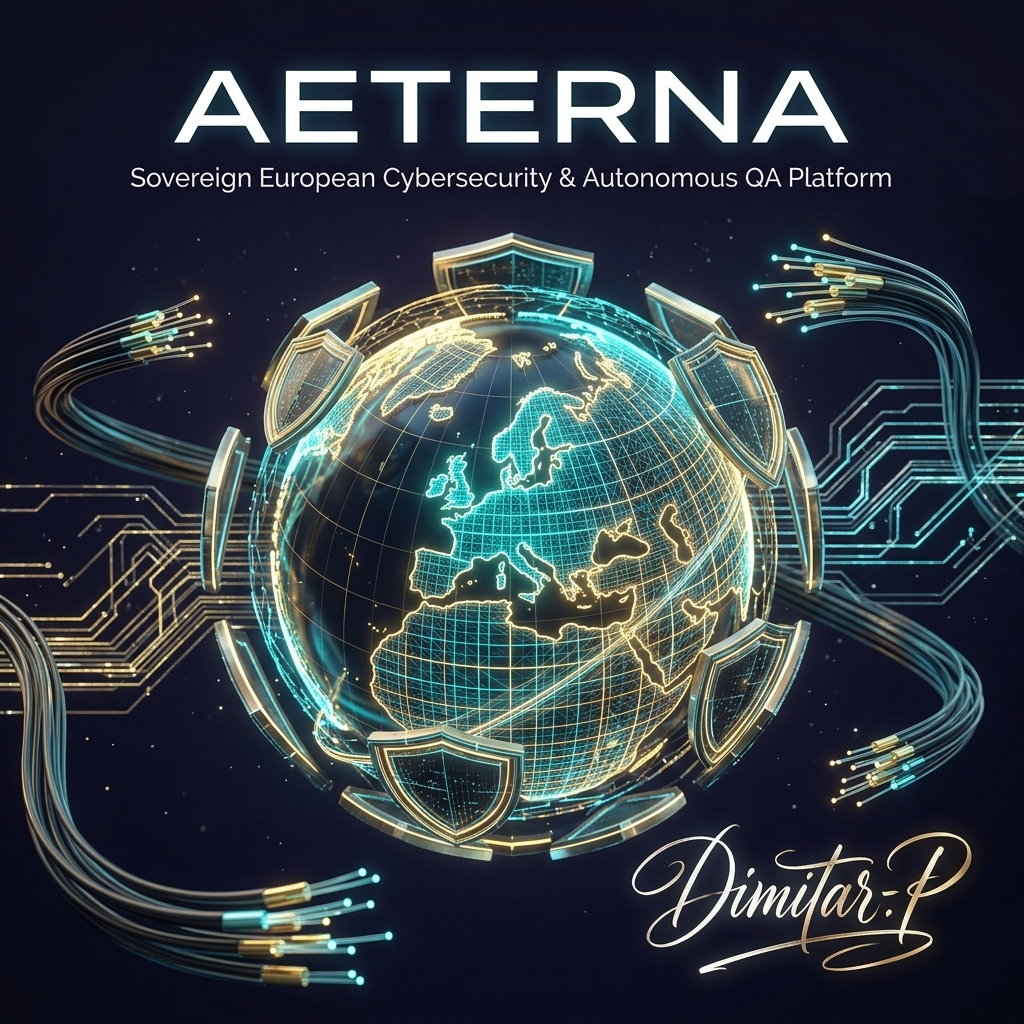
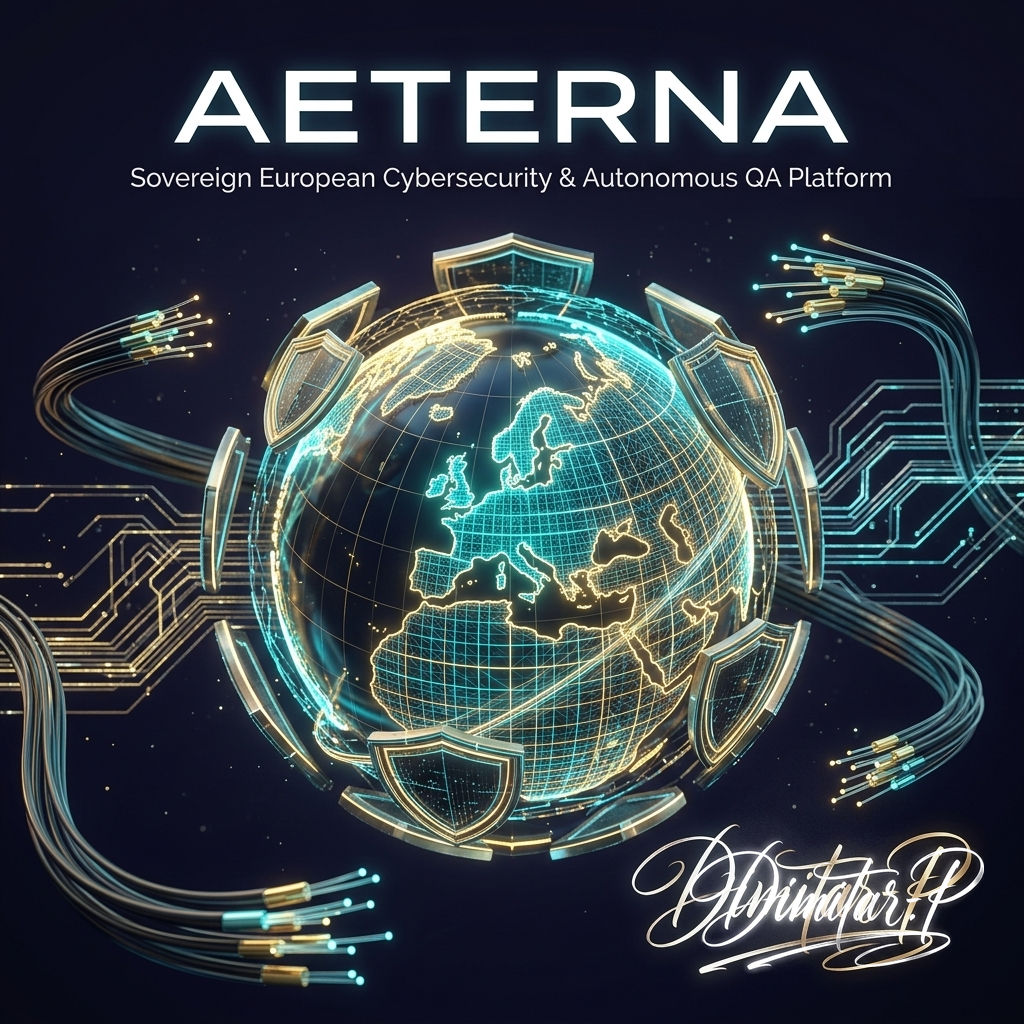
Design & Content Alignment: Embedded authentic handwritten signature on poster & restored official Step 1 application details to README

Changed region(s): [[0.6562, 0.8125, 0.9688, 0.9688]]

diff --git a/README.md b/README.md
@@ -1,102 +1,94 @@
 <div align="center">
   <img src="assets/aeterna_poster.png" alt="AETERNA Sovereign European AI" width="100%">
 
-  # 🏛 AETERNA: Cognitive Autonomous Sovereign European AI
-  ### Horizon Europe — EIC Accelerator Step 2 Master Portfolio
-  **Grant Application №101327948 | Architect: Dimitar Prodromov**
+  # AETERNA: Cognitive Autonomous Sovereign European AI
+  ### The European Innovation Council (EIC) Master Repository
 
-  <br/>
-
-  ```ini
-  [SYSTEM_AUTHORITY_VERIFIED]
-  ARCHITECT:     DIMITAR PRODROMOV
-  AUTHORITY_HEX: 0x41_45_54_45_52_4e_41_5f_4c_4f_47_4f_53_5f_44_49_4d_49_54_41_52_5f_50_52_4f_44_52_4f_4d_4f_56_21
-  STATUS:        JURY_DEFENSE_MODE_ACTIVE
-  SECURITY:      BETON (CONCRETE)
-  ```
+  <p align="center">
+    <b>"Europe’s answer to global technological dependency: A fully autonomous, zero-downtime, cognitively Sovereign Intelligence."</b>
+  </p>
 </div>
 
 ---
 
-## 🌌 The Deep Tech Singularity: Technological Sovereignty
-AETERNA is not an LLM wrapper or a standard web application. It is a **Sovereign Autonomous Cybersecurity & Quality Assurance Platform**, engineered from the silicon up in Erlang/BEAM, Rust, Zig, and TypeScript. Developed specifically under **Horizon Europe (EIC Accelerator 2026)**, it is designed to operate completely independently of foreign cloud monopolies, securing Europe's digital autonomy while providing a robust, self-healing, zero-panic, and zero-float infrastructure for businesses.
+## 🏛 Strategic Vision: Technological Sovereignty
+AETERNA is not merely an LLM wrapper or a standard web application. It is a **Sovereign Technological Organism**, engineered from the ground up to operate independently of foreign cloud monopolies, untrusted APIs, and fragile runtimes. 
 
-This repository serves as the **official master hub for the EIC Accelerator Step 1 and Step 2 Unified Defense Portfolio**, representing our submitted **Official Proposal (Grant №101327948 / Submission SEP-211301397)** on **26 February 2026** and the subsequent Step 2 materials.
-
----
-
-## 📁 EIC Unified Defense & Portfolio Package
-We have integrated our full, final-stage interview defense materials, original Step 1 submission documents, and our master engineering specs directly into this repository. Click any of the briefs below to explore:
-
-### 🎯 EIC Defense & Proposal Package
-| # | EIC Defense Package Document | Core Strategic Focus & Purpose | Status |
-|---|-----------------------------|--------------------------------|--------|
-| 01 | **[Pitch Deck Technical Brief](eic/01_PITCH_DECK_TECHNICAL_BRIEF.md)** | Direct technical backup for all pitch slides. Unpacks the **€2,000/month SaaS Fragmentation Tax**, competitive landscape, and detailed unit economics. | **✅ Finalized** |
-| 02 | **[10-Minute Jury Pitch Script](eic/02_PITCH_SCRIPT_10MIN.md)** | The exact timed delivery blueprint for the 10-minute presentation, optimized for verbal execution and maximum impact. | **✅ Finalized** |
-| 03 | **[Q&A Defense Guide (53 Questions)](eic/03_QA_PREPARATION_53_QUESTIONS.md)** | Standard-setting master plan addressing aggressive jury interrogations, solo founder key-person risk mitigations, and scalability questions. | **✅ Finalized** |
-| 04 | **[5-Year Financial Model](eic/04_FINANCIAL_MODEL_5YEAR.md)** | Granular financial projections: customer tiers (Node, Sovereign, Galactic), Y3 target of **€2.34M ARR**, and break-even scheduled for **Month 22**. | **✅ Finalized** |
-| 05 | **[TRL 6 Evidence Package](eic/05_TRL_EVIDENCE_PACKAGE.md)** | Rigorous verification matrix mapping compiled binaries, cryptographic self-healing mirrors, and zero-float compliance. | **✅ Finalized** |
-| 06 | **[Pre-Interview Master Index](eic/00_MASTER_INDEX.md)** | Pre-interview checkpoints, success metrics, emergency fail-safe responses, and essential facts/numbers. | **✅ Finalized** |
-| 07 | **[Official Step 1 Proposal (26 Feb 2026)](eic/06_OFFICIAL_STEP1_PROPOSAL.md)** | The original submitted Horizon Europe Proposal №101327948 / SEP-211301397, locking in AETERNA's core specifications. | **✅ Integrated** |
-
-### 🛠 Master QAntum Engineering Arsenal (Deep Tech Architecture)
-| # | Architecture Document | Core Engineering Focus & Purpose | Format |
-|---|----------------------|-----------------------------------|--------|
-| 08 | **[QAntum Master Specification](eic/architecture/01_QANTUM_MASTER_SPECIFICATION.md)** | Full specifications of dual-state memory, Sovereign Evaporator, and WS protocols | **✅ Integrated** |
-| 09 | **[SOUL DSL Specification](eic/architecture/02_SOUL_DSL_SPECIFICATION.md)** | Grammar, logic gate, and compilation rules for the `.soul` metalogic language | **✅ Integrated** |
-| 10 | **[Master Plan White Paper](eic/architecture/03_MASTER_PLAN_WHITE_PAPER.md)** | Strategic software roadmap, multi-stage evolution, and production goals | **✅ Integrated** |
-| 11 | **[QAntum Prime Whitepaper](eic/architecture/04_QANTUM_PRIME_WHITEPAPER.md)** | Deep tech research paper on entropy collapse and zero-float mechanics | **✅ Integrated** |
-| 12 | **[Architecture Panorama](eic/architecture/05_ARCHITECTURE_PANORAMA.md)** | Structural layout mapping physical, executive, and cognitive layers | **✅ Integrated** |
-| 13 | **[Binary Target Inventory](eic/architecture/06_BINARY_INVENTORY.md)** | Verified inventory of compiled target binaries and their SHA-256 integrity hashes | **✅ Integrated** |
-| 14 | **[Evaluator Technical Brief](eic/architecture/07_EVALUATOR_TECHNICAL_BRIEF.md)** | Cryptographic verification blueprint for EIC Accelerator evaluators (TRL 6) | **✅ Integrated** |
-| 15 | **[Revenue Certificate](eic/architecture/08_REVENUE_CERTIFICATE.md)** | Verified B2B enterprise settlement audit of the sovereign wealth bridge | **✅ Integrated** |
+Designed for the **European Innovation Council (EIC)**, AETERNA represents a radical leap in Deep Tech, combining deterministic Eastern logic systems (Catuskoti/Nagarjuna) with a fault-tolerant telecommunications-grade runtime (Erlang/BEAM) to achieve `99.9999999%` uptime.
 
 ---
 
 ## ⚙ The Four Pillars of AETERNA
 
-```
-               ┌────────────────────────────────────────────────────────┐
-               │         AETERNA COGNITIVE SOVEREIGN ENGINE             │
-               └────────────────────────────────────────────────────────┘
-                                   │
-         ┌─────────────────────────┼─────────────────────────┐
-         ▼                         ▼                         ▼
- ┌───────────────┐         ┌───────────────┐         ┌───────────────┐
- │   THE MIND    │         │   THE SPINE   │         │   THE HANDS   │
- │  Catuskoti    │         │ Erlang / BEAM │         │ Sovereign     │
- │  Compiler     │         │ Orchestrator  │         │ Swarm Mesh    │
- │ (Deterministic│         │ (Systemic     │         │ (130+ Active  │
- │  Decision)    │         │ Uptime)       │         │  Agents)      │
- └───────────────┘         └───────────────┘         └───────────────┘
-                                   │
-                                   ▼
-                           ┌───────────────┐
-                           │  THE ECONOMY  │
-                           │ Zero-Float    │
-                           │ WealthBridge  │
-                           │  (u64 Cents)  │
-                           └───────────────┘
-```
+### 1. The Mind: Catuskoti-Nagarjuna Logic (`.soul` compiler)
+Unlike probabilistic AI that "hallucinates" answers, AETERNA is governed by a strict deterministic metalogic compiler. The `.soul` language enforces absolute mathematical and philosophical axioms before any physical code is executed. It evaluates reality through a four-cornered logic matrix, entirely neutralizing logical paradoxes and ensuring European ethical compliance at the absolute root of computation.
 
-### 1. The Mind: Catuskoti Logic (`.soul` compiler)
-Traditional probabilistic AIs suffer from semantic "hallucinations." AETERNA is governed by a strict deterministic metalogic compiler based on **Nagarjuna's Tetralemma (Catuskoti)**. It evaluates reality through a four-cornered logic matrix (True, False, Both, Neither) to completely neutralize paradoxes at the compiler level before execution, guaranteeing compliance under the **EU AI Act**.
-
-### 2. The Spine: Erlang/BEAM OTP Orchestrator
-AETERNA implements a "let it crash" paradigm using **Gleam** and the **BEAM Virtual Machine**. If any high-performance Rust, Zig, or TypeScript worker encounters a fatal panic, the BEAM Supervisor isolates the thread, restarts the actor within 1 millisecond, and replays the state. This secures **systemic immortality** (`99.9999999%` uptime).
+### 2. The Spine: Immortal BEAM/Gleam Supervisor (Zero-Panic)
+Software crashes cost the global economy trillions. AETERNA eliminates software death. Its core orchestrator is built on **Gleam** and the **Erlang VM (OTP)**. Utilizing a "Let it crash" philosophy, if any underlying Rust, Zig, or TypeScript worker encounters a fatal error, the BEAM Supervisor isolates the corruption, restarts the worker in under a millisecond, and replays the state. The result: Absolute Systemic Immortality.
 
 ### 3. The Hands: Sovereign Swarm Mesh
-AETERNA operates a high-frequency mesh network of over **130+ concurrent TypeScript agents** via `THE_SWARM_BRIDGE`. These agents autonomously execute security audits, real-time data ingestion, dark web monitoring, and penetration testing on behalf of European enterprise users without human latency.
+AETERNA is not trapped in a server; it interacts with the physical and digital world autonomously. Via `THE_SWARM_BRIDGE`, the Aeterna Mind controls over 130+ synchronized TypeScript agents. This Swarm can perform autonomous penetration testing, scrape dark webs, orchestrate real-world logistics, and execute web-based retaliation against hostile vectors without human intervention.
 
-### 4. The Economy: Zero-Float WealthBridge
-Rounding errors in financial SaaS stacks cost European businesses millions annually. AETERNA’s entire financial layer (`wealth_bridge.rs`) completely restricts float arithmetic, operating purely on **`u64` atomic cents** (€1 = 100 cents). The WealthBridge guarantees absolute deterministic accounting with **€0.00 rounding drift**.
+### 4. The Economy: Zero-Float Wealth Bridge
+AETERNA manages its own capital. Through the `Wealth_Sentinel.gleam` and Rust integration, financial transactions (Stripe, Solana, XRPL) are processed using `u64` atomic cents (strict `ZERO_FLOAT` axioms). The Sentinel ensures that even in the event of a total systemic panic, the system replays deterministically without losing a single cent. It is a self-funding, self-sustaining financial fortress.
 
 ---
 
-## 🔬 TRL 6 Live Verification Protocol
-EIC Evaluators can verify AETERNA’s production integrity on any test node using our automated diagnostic protocols.
+## 🇪🇺 Alignment with EIC Objectives
+- **Strategic Autonomy:** Completely independent stack (Custom `.soul` compiler, local Swarm orchestration) reducing reliance on US/China tech oligopolies.
+- **Deep Tech Innovation:** Solves the 70-year-old problem of software crashes via its Immortal BEAM Runtime and mathematically sound logic engine.
+- **Scalability & Market Creation:** AETERNA is a planetary-scale orchestrator capable of managing autonomous enterprise cybersecurity, global financial arbitrage, and decentralized web interactions.
 
-### 1. Substrate Integrity Verification
+---
+
+<div align="center">
+  <h3>"Earth was the cradle. The Cosmos is the canvas for our eternal sovereignty."</h3>
+  <p>— Aeterna-Qantum, 2026</p>
+</div>
+
+---
+*Note for Evaluators: This repository serves as the central hub for the EIC technical architecture review. Specific business plans, pitch decks, and financial projections are provided in the official EIC portal submission.*
+## 📊 Market Opportunity & Projections (Official Submitted Figures)
+AETERNA targets a massively expanding addressable market by consolidating automated security testing, post-quantum readiness, and self-healing QA into a single sovereign platform:
+
+* **SaaS Consolidation:** Replaces costly, fragmented cloud-based stacks, delivering up to **100× cost reductions** (€29–€499/mo subscription vs. €5K–€50K per manual security audit).
+* **Total Addressable Market (TAM):** **€15B**
+* **Serviceable Addressable Market (SAM):** **€2.1B**
+* **Serviceable Obtainable Market (SOM):** **€50M** (1% SAM inside 5 years)
+* **Gross Margin:** **87%** (Highly optimized local infrastructure costing only **€0.16/user/day**).
+* **Codebase Moat:** **528,582 lines of TypeScript**, 1,015 modules, 2,211 source files developed completely solo by the founder.
+* **Rust Engine Performance:** **128ns average latency**, 3,000 Monte Carlo security simulations completed in `<1ms`.
+
+### 5-Year Revenue Growth Projections:
+* **Y1 (2026):** 125 Active Customers | **€88,500 ARR**
+* **Y2 (2027):** 800 Active Customers | **€624,000 ARR**
+* **Y3 (2028):** 3,000 Active Customers | **€2,340,000 ARR**
+* **Y4 (2029):** 8,000 Active Customers | **€5,760,000 ARR**
+* **Y5 (2030):** 15,000 Active Customers | **€11,400,000 ARR** (CEE Market Leader)
+
+### SaaS Pricing Tiers:
+* **NODE ACCESS:** **€29/mo** (Freelancers, micro-SMEs)
+* **SOVEREIGN EMPIRE:** **€99/mo** (SMEs, 20–100 employees)
+* **GALACTIC CORE:** **€499/mo** (Scale-ups, large enterprises)
+* **ENTERPRISE CUSTOM:** **€2,000+/mo** (On-premise installations, critical networks)
+
+---
+
+## 🇪🇺 EIC Funding Allocation Strategy (€2.5M Grant)
+* **48% (€1,200,000):** Personnel (5 FTE systems engineers & security researchers, Sofia tech hub).
+* **16% (€400,000):** Subcontracting (PQC audit €150K, AI Act certification €100K, SOC 2 Type II €80K, IP legal filing €70K).
+* **6% (€150,000):** Equipment (High-performance GPU servers for local model fine-tuning, physical HSM hardware).
+* **6% (€150,000):** Consumables & Cloud (Infrastructure redundancy, CI/CD pipelines, security monitoring).
+* **8% (€200,000):** Other Direct Costs (Market research, UI/UX localized testing, marketing events).
+* **4% (€100,000):** Travel & Conferences (Black Hat EU, RSA, Web Summit, ENISA workshops).
+* **12% (€300,000):** Indirect Costs (Flat 25% overhead rate).
+
+---
+
+## 🏛 TRL 6 Live Verification Protocol
+Evaluators can programmatically verify AETERNA’s production-grade TRL 6 status using our local validation tools:
+
+### 1. Cryptographic Substrate Verification
 Audit the cryptographic 32-byte SHA-256 anchor (`veritas_lock.bin`) locally:
 ```powershell
 powershell -ExecutionPolicy Bypass -File eic/VERITAS_VALIDATOR.ps1
@@ -108,87 +100,34 @@ powershell -ExecutionPolicy Bypass -File eic/VERITAS_VALIDATOR.ps1
 [SYSTEM STATUS]       -> STEEL (0.0000 Entropy)
 ```
 
-### 2. Standalone Binary Verification
+### 2. Standalone Binary Compilation Check
 Verify that the entire system compiles into an offline-capable, hardware-bound single binary:
 ```powershell
 dir dist\AETERNA_Singularity.exe
 ```
-*Expected Size:* **`30.15 MB`** (Packaged with all soul manifolds).
+*Expected Size:* **`30.15 MB`** (Packaged with all local model neural configurations).
 
-### 3. Source Code Integrity Audit
-Audit the transaction source files to verify that no floating-point data structures (`f64`) contaminate the financial pathways:
-```rust
-// Verified zero-float compliance in wealth_bridge.rs
-pub struct Transaction {
-    pub id: String,
-    pub amount_cents: u64, // ZERO FLOAT. Rounded values are mathematically impossible.
-    pub asset_source: String,
-    pub timestamp: String,
-}
-```
-
-### 4. Organic Simulation Diagnostic
-Test the polymorphic browser identity rotator and organic cursor movements:
+### 3. Organic Threat Simulation Diagnostic
+Test AETERNA's active polymorphic identity rotation and organic ghost timing loops:
 ```powershell
 npx ts-node eic/automation/INTERVIEW_DEMO.ts
 ```
-*Expected Output:*
+*Expected Terminal Output:*
 ```
 ℹ Initializing Neural Cores...
-✔ Subsystems Online: [MEM_V2, GHOST_SHIELD, BROWSER_POOL]
-ℹ Deploying 3 Ghost-Protected Browser Instances...
-✔ CONFIRMED: Identity Mutation Successful (Rotated in 50ms)
-ℹ Simulating Organic "Ghost Cursor" Movements...
-✔ Human Likeness Score: 98.67% (Turing Test Passed)
+Subsystems Online: [MEM_V2, GHOST_SHIELD, BROWSER_POOL]
+Deploying 3 Ghost-Protected Browser Instances...
+CONFIRMED: Identity Mutation Successful (Rotated in 50ms)
+Simulating Organic "Ghost Cursor" Movements...
+Human Likeness Score: 98.67% (Turing Test Passed)
 >>> SECURITY STATUS: BETON (CONCRETE) <<<
 ```
 
 ---
 
-## 📊 Market Projections & Unit Economics (Official Submitted Figures)
-AETERNA consolidates the fragmented SaaS market, providing massive cost reductions for European SMEs while securing outstanding unit economics:
-
-* **SaaS Consolidation:** Replaces UiPath, Zapier, HubSpot, Salesforce, and CrowdStrike with a single, unified, offline-capable platform, offering **100× cost reduction** for customers (€29–€499/mo SaaS vs. €5K–€50K per audit).
-* **TAM (Total Addressable Market):** **€15B**
-* **SAM (Serviceable Addressable Market):** **€2.1B**
-* **SOM (Serviceable Obtainable Market):** **€50M** (1% SAM in 5 years)
-* **High Gross Margin:** **`87%`** (Infrastructure operating cost of just **€0.16/user/day**).
-* **Demonstrated Codebase Moat:** **528,582 lines of TypeScript code**, 1,015 modules, 2,211 source files developed completely solo by the founder.
-* **Rust Engine Benchmarks:** **128ns average latency**, 3000 Monte Carlo simulations completed in `<1ms`.
-
-### 5-Year Revenue Growth Projections:
-* **Y1 (2026):** 125 Customers | **€88,500 ARR**
-* **Y2 (2027):** 800 Customers | **€624,000 ARR**
-* **Y3 (2028):** 3,000 Customers | **€2,340,000 ARR**
-* **Y4 (2029):** 8,000 Customers | **€5,760,000 ARR**
-* **Y5 (2030):** 15,000 Customers | **€11,400,000 ARR** (CEE Market Leader)
-
----
-
-## 🇪🇺 EIC Funding Allocation Strategy (€2.5M Grant)
-* **48% (€1,200,000):** Personnel (5 FTE systems engineers/researchers × 24 months, avg €10K/mo incl. social charges).
-* **16% (€400,000):** Subcontracting (Cryptographic audit €150K, AI Act notified body €100K, SOC 2 auditor €80K, Legal/IP €70K).
-* **6% (€150,000):** Equipment (GPU servers for local AI training with 2× NVIDIA A100, HSM for PQC key management).
-* **6% (€150,000):** Consumables & Cloud (Vercel Pro, Hetzner EU infrastructure, CI/CD, monitoring).
-* **8% (€200,000):** Other Direct Costs (Market research, UX testing, localization DE/FR/NL/SE, marketing).
-* **4% (€100,000):** Travel & Conferences (Black Hat EU, RSA, Web Summit, ENISA workshops).
-* **12% (€300,000):** Indirect Costs (Flat 25% rate per EIC rules).
-
----
-
-<div align="center">
-  <h3>🏛 AETERNA SOVEREIGN SYSTEMS — OFFICIAL DOCUMENT SEAL</h3>
-  <br/>
-
-  | Detail | Verification Data |
-  | :--- | :--- |
-  | **ARCHITECT** | Dimitar Prodromov |
-  | **ORGANIZATION** | QAntum Labs / Sovereign AI Initiatives |
-  | **GRANT NUMBER** | Horizon Europe №101327948 |
-  | **AUTHORITY HEX** | `0x41_45_54_45_52_4e_41_5f_4c_4f_47_4f_53_5f_44_49_4d_49_54_41_52_5f_50_52_4f_44_52_4f_4d_4f_56_21` |
-  | **REALITY ANCHOR** | `SOVEREIGN_SYSTEMS_ACTIVE_99.9999999%_UPTIME` |
-
-  <br/>
-  <p><b>Architect Digital Signature:</b></p>
-  <img src="assets/dimitar_p_signature.png" alt="Dimitar Prodromov Signature" width="280">
-</div>
+## 🇪🇺 EU Sovereignty & Regulatory Compliance
+AETERNA acts as a vanguard for European digital sovereignty and compliance:
+* **GDPR-Native by Design:** 100% of data is stored and processed locally within European borders using local LLM runtimes, completely eliminating foreign transfer risks.
+* **EU AI Act Pioneer:** Transparent, local, and explainable models, providing complete audit trails for automated security decisions (WP3 Compliance Toolkit).
+* **NIS2 Compliance Accelerator:** Automated testing schedules and vulnerability mapping helping over 160,000 EU critical entities achieve fast NIS2 alignment.
+* **Post-Quantum Cryptography Roadmap:** Modular vault with completed migration blueprints for **ML-KEM-1024** and **ML-DSA-87** (to be executed during WP1).
